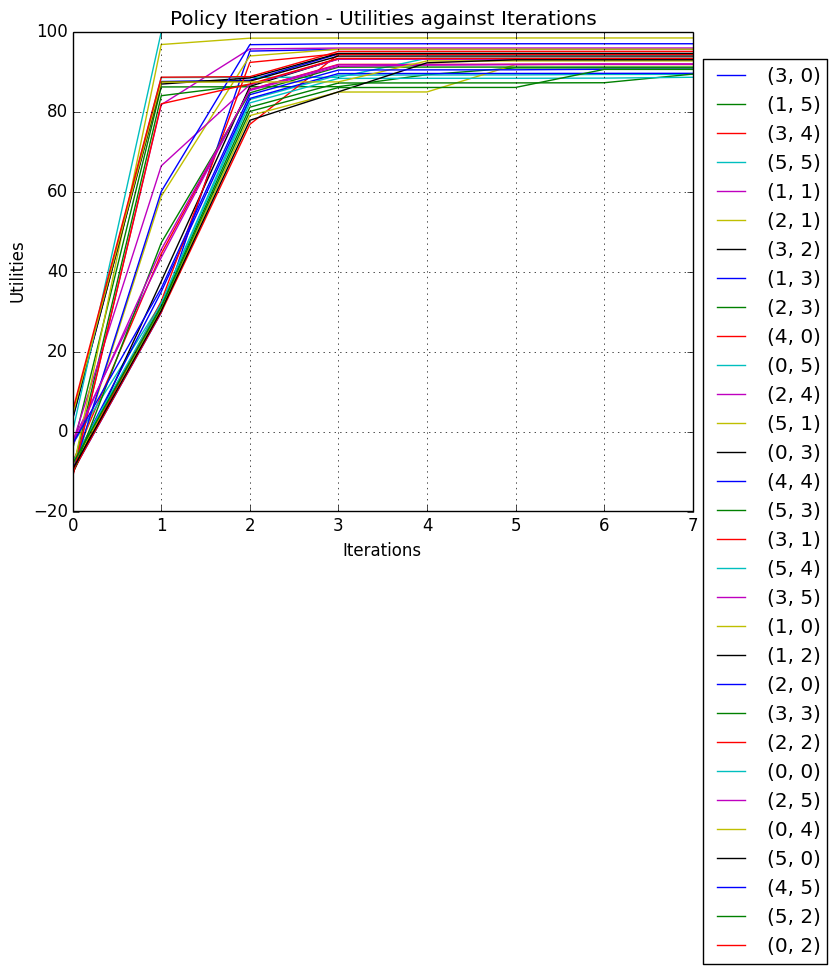
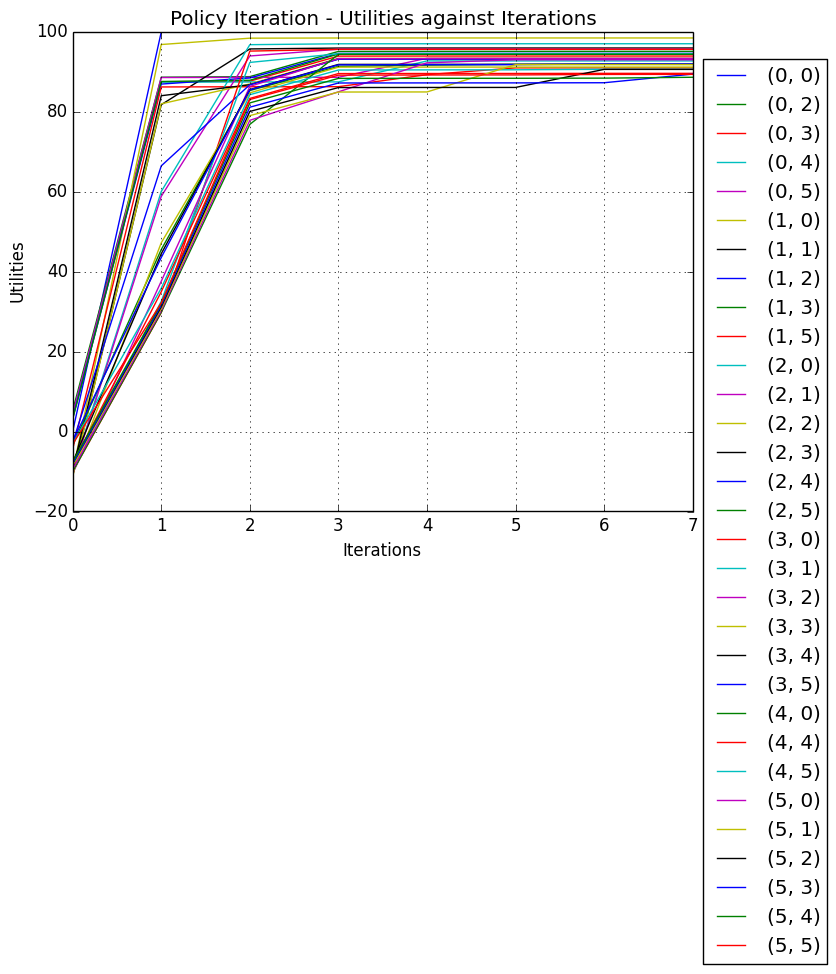
Update

diff --git a/plot_hist.py b/plot_hist.py
@@ -1,19 +1,20 @@
 import matplotlib.pyplot as plt
+import collections
 
-file_path = 'valueiteration/valueiteration_hist.txt'
-fig_path = 'valueiteration/utilities_against_iterations.png'
-algo = 'Value Iteration'
+# file_path = 'valueiteration/valueiteration_hist.txt'
+# fig_path = 'valueiteration/utilities_against_iterations.png'
+# algo = 'Value Iteration'
 
-# file_path = 'policyiteration/policyiteration_hist.txt'
-# fig_path = 'policyiteration/utilities_against_iterations.png'
-# algo = 'Policy Iteration'
+file_path = 'policyiteration/policyiteration_hist.txt'
+fig_path = 'policyiteration/utilities_against_iterations.png'
+algo = 'Policy Iteration'
 
 with open(file_path, 'r') as f:
     f_list = f.readlines()
 
 f_list = [i.strip() for i in f_list]
 
-data_dict = dict()
+data_dict = collections.OrderedDict()
 ROW = 6
 COL = 6
 
@@ -35,6 +36,8 @@ for line in f_list:
     else:
         c = 0
         r += 1
+
+
 
 plt.figure(algo)
 plt.title("{} - Utilities against Iterations".format(algo))
